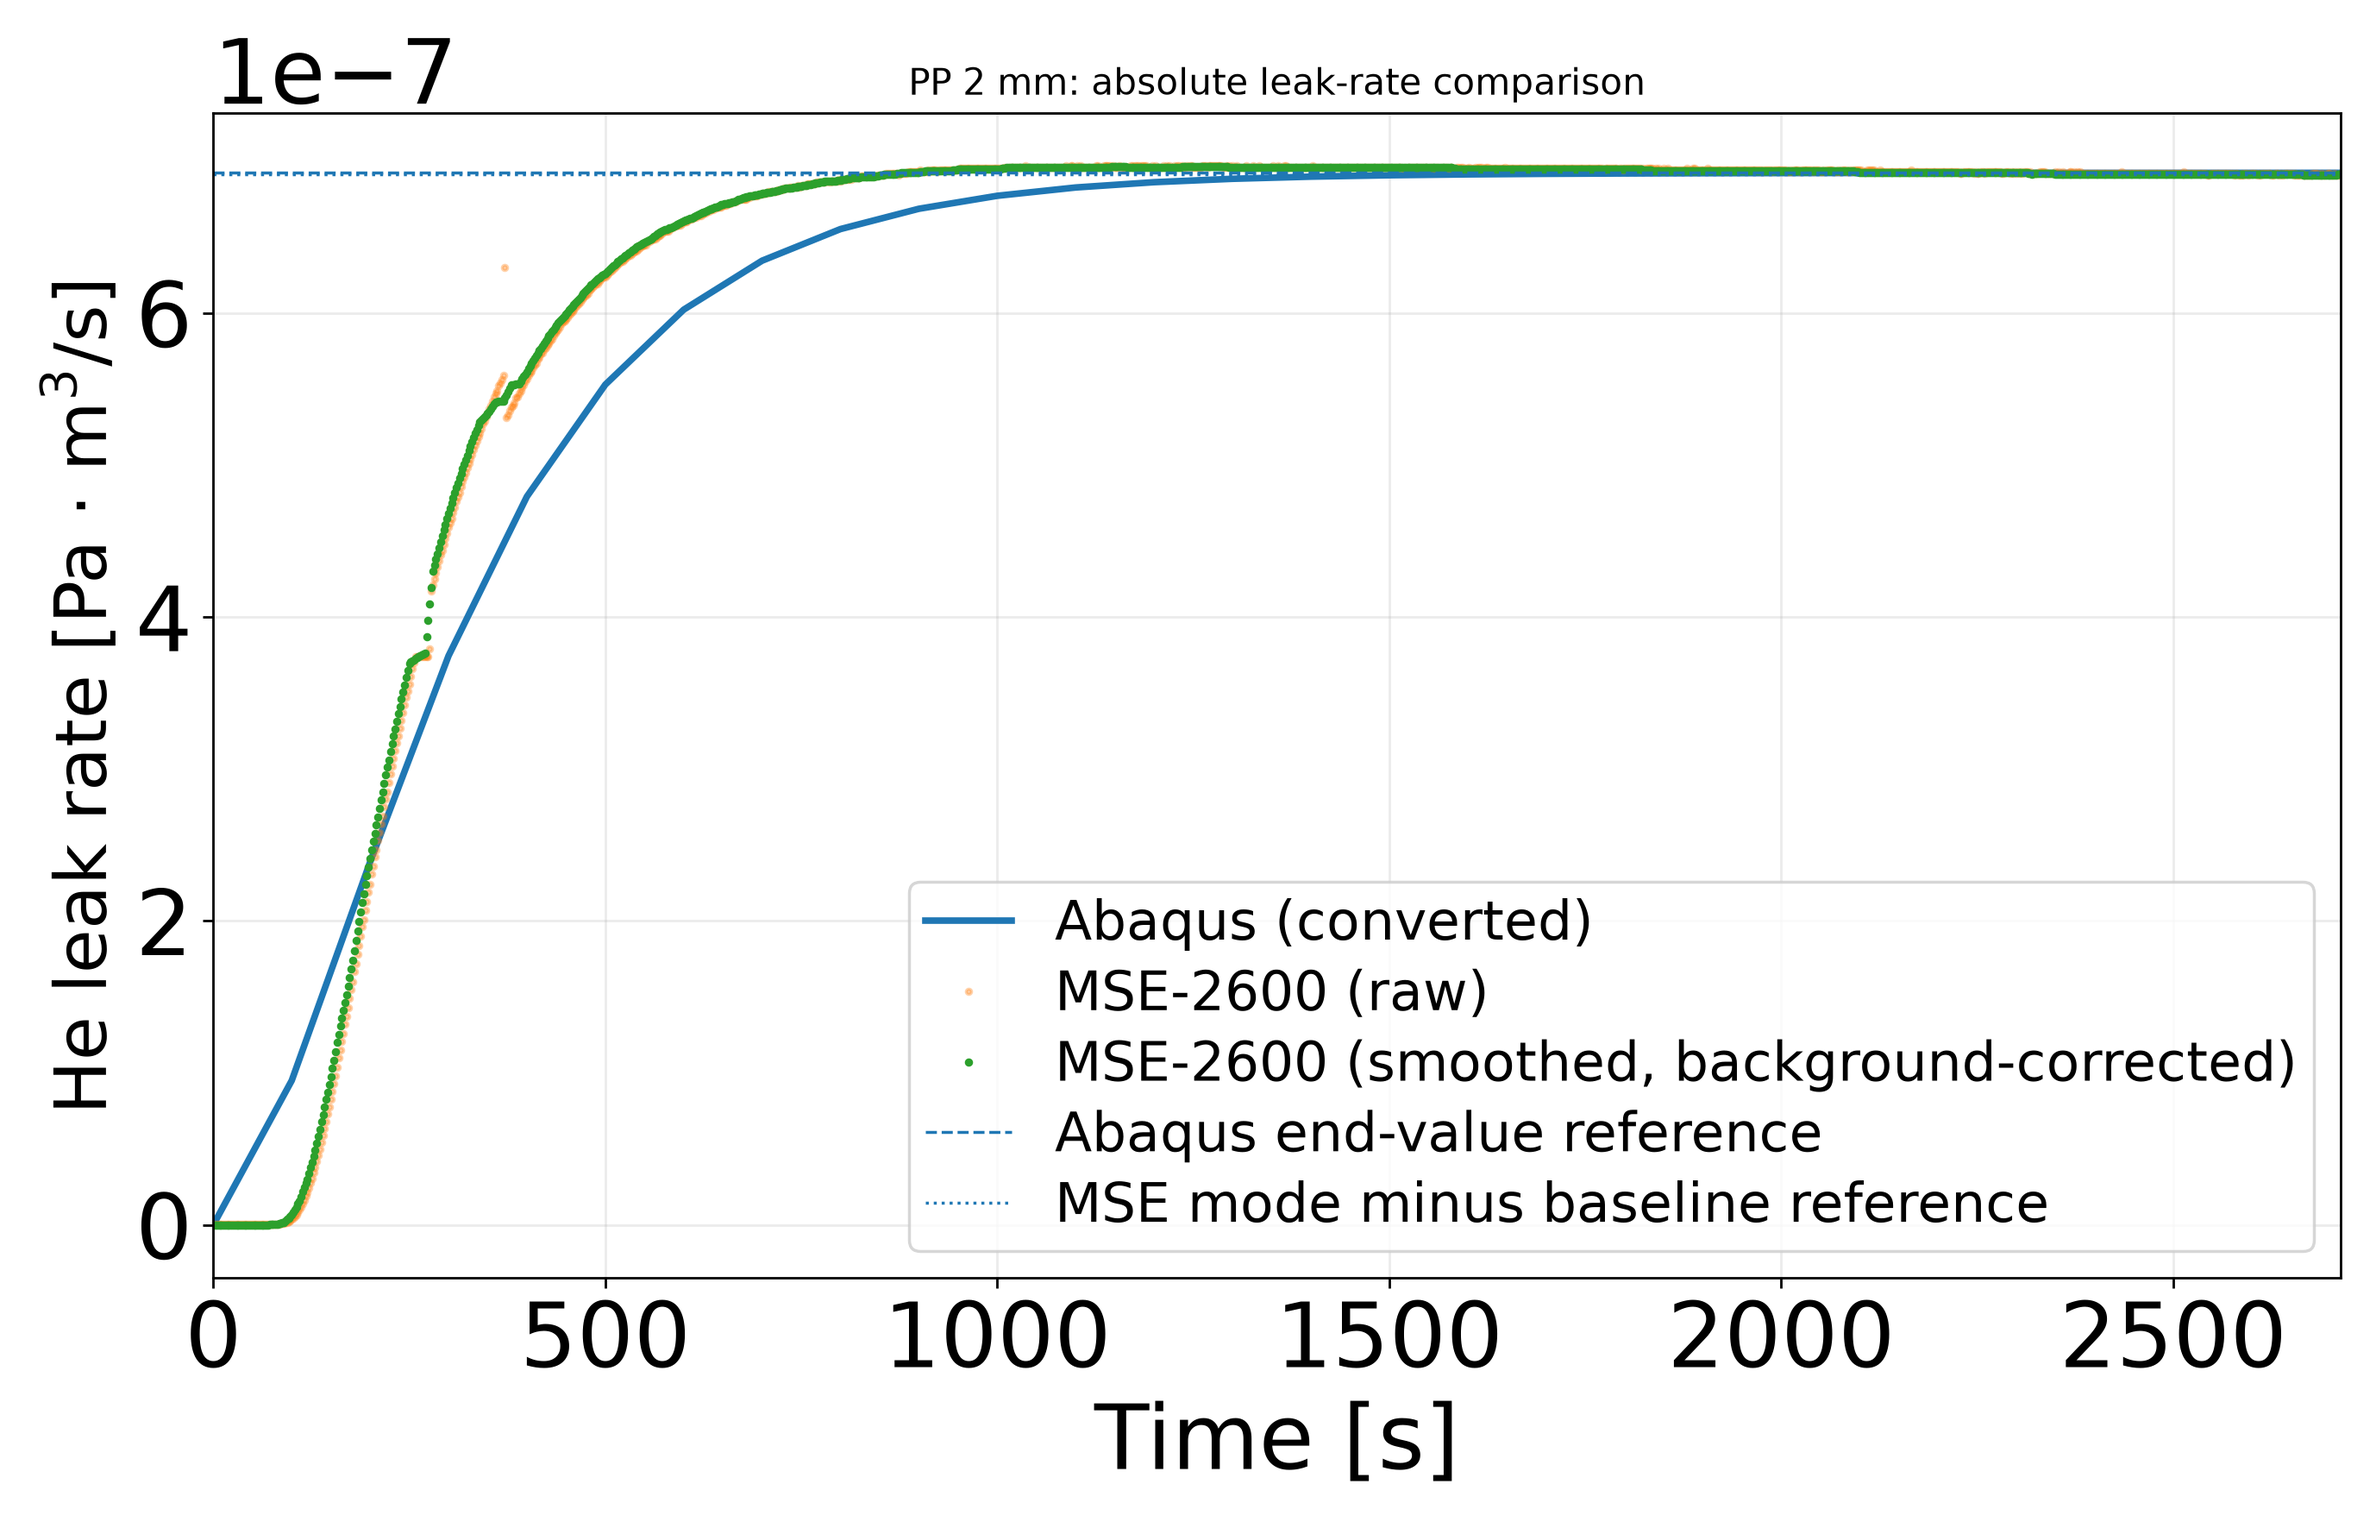
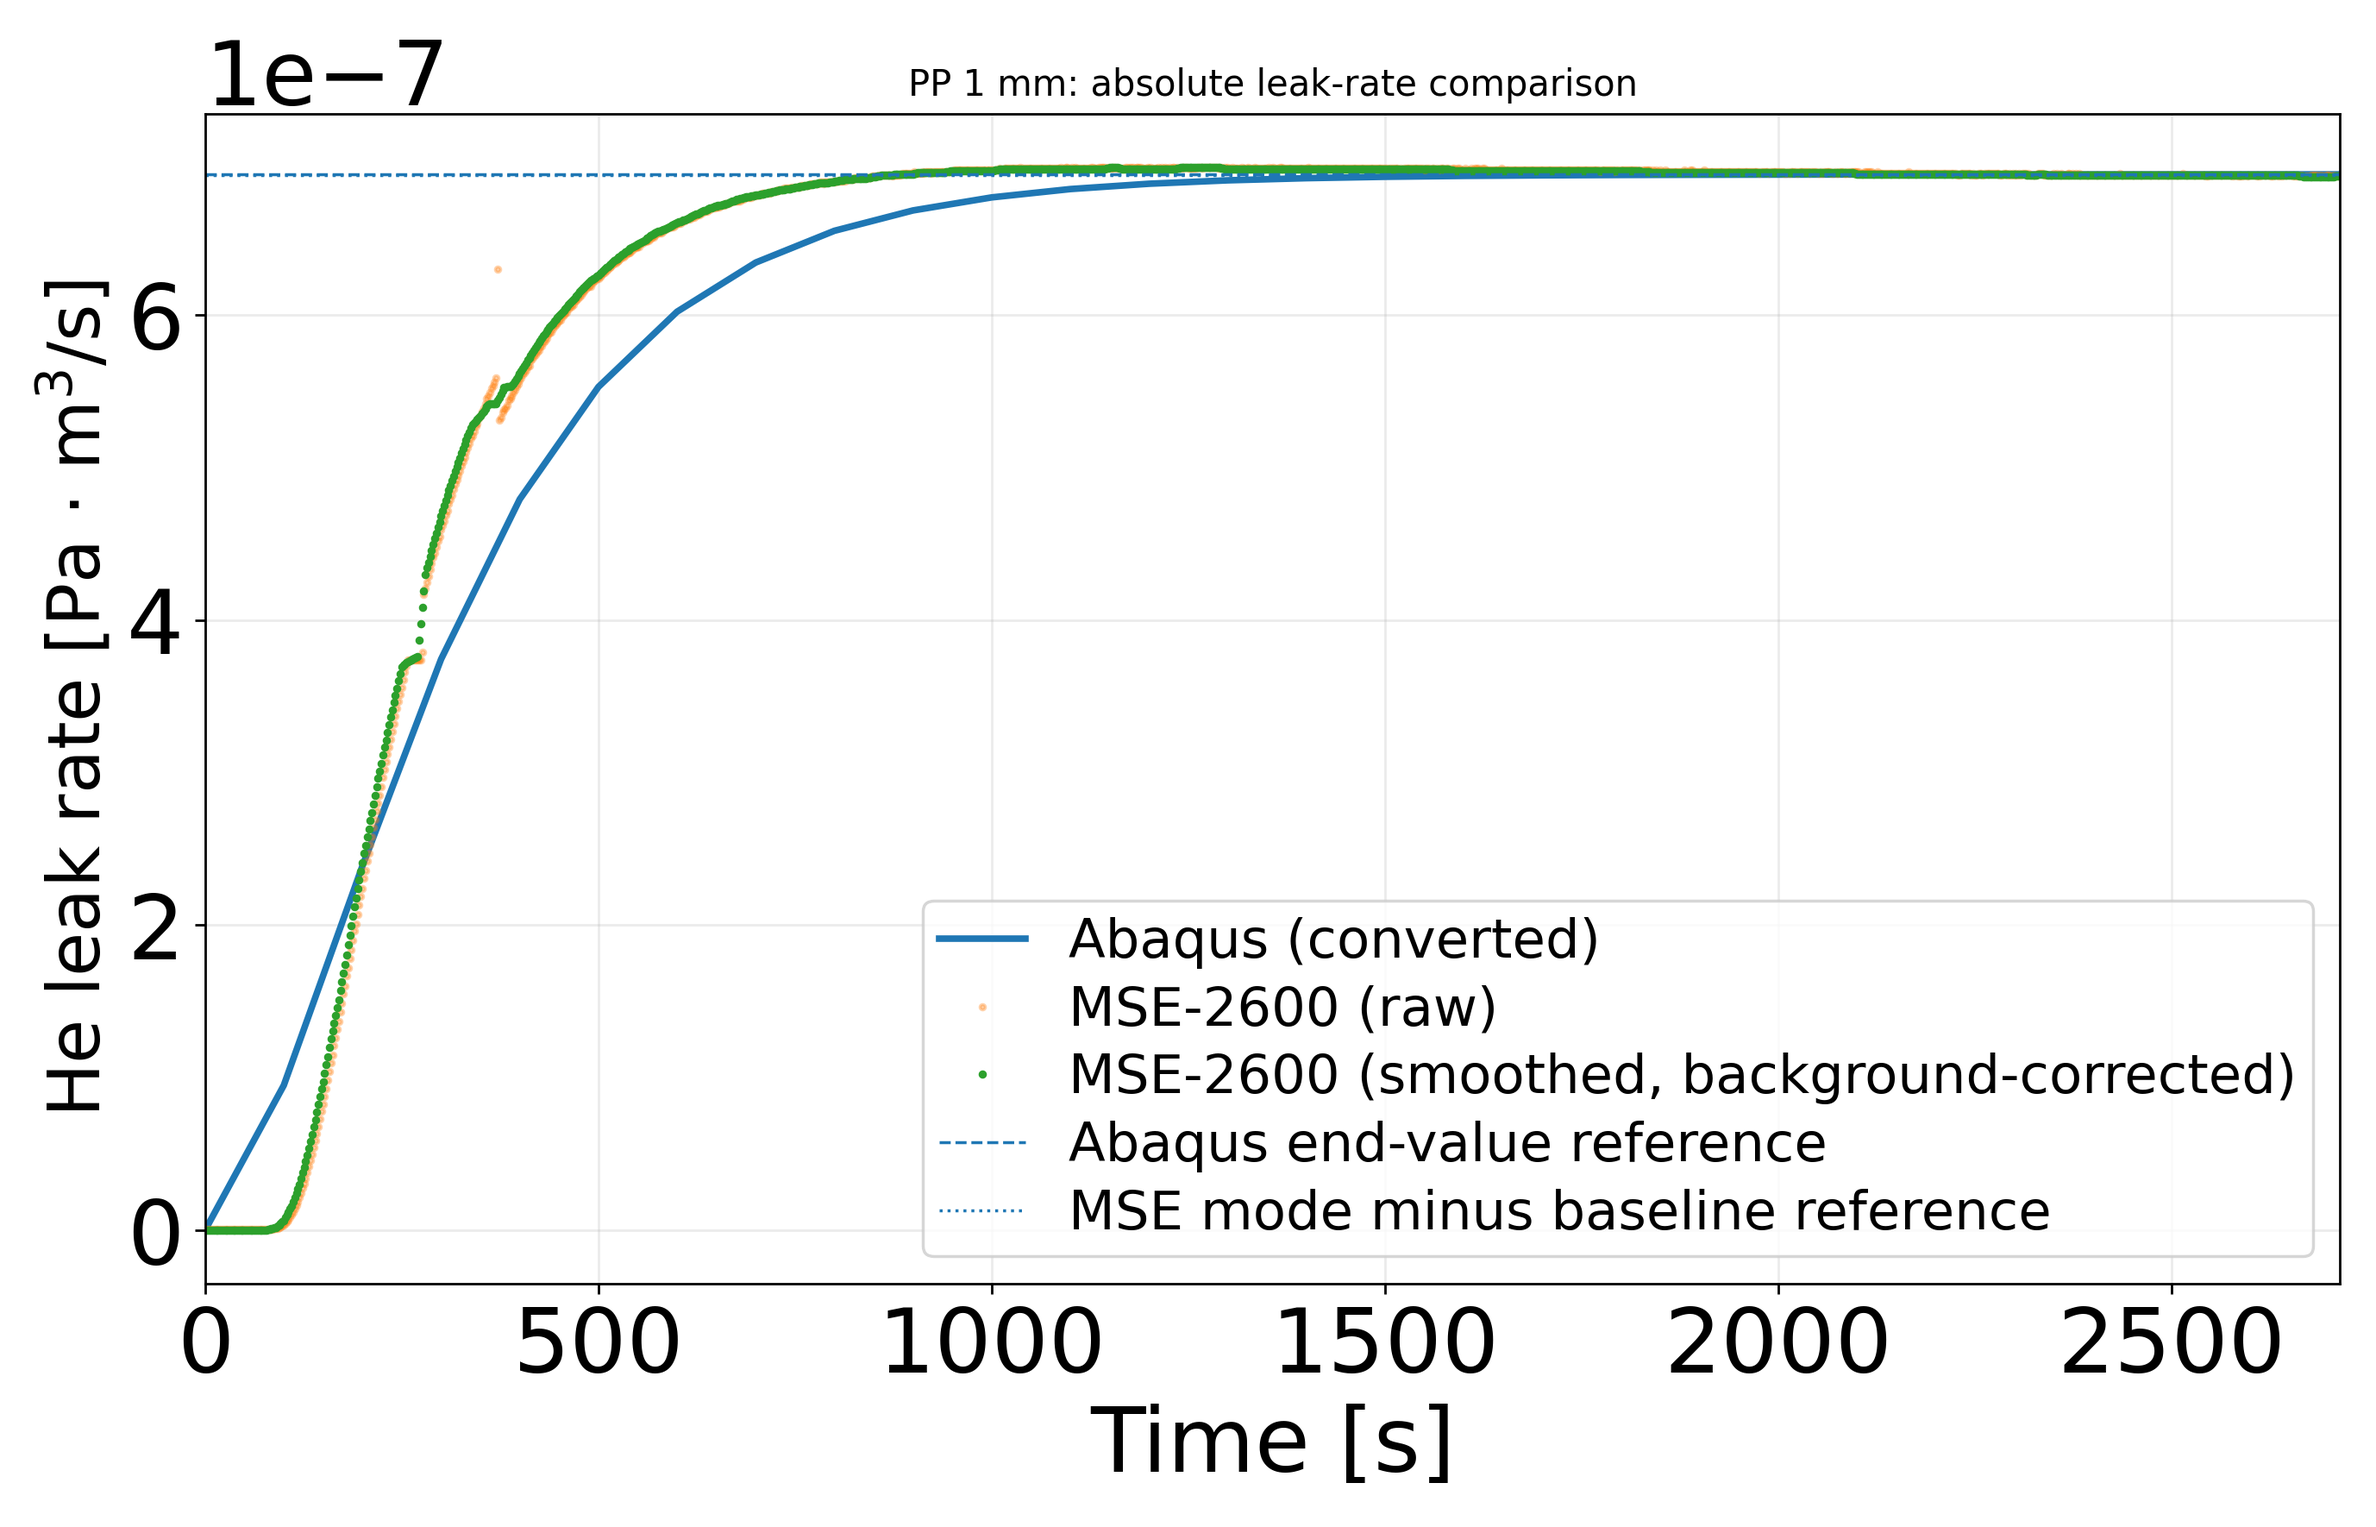
update PP1mm

diff --git a/compare_peek_abaqus_mse2600.py b/compare_peek_abaqus_mse2600.py
@@ -412,7 +412,7 @@ def main(argv=None):
     plt.xlim(x_min, x_max)
     plt.xlabel("Time [s]")
     plt.ylabel(r"He leak rate [Pa $\cdot$ m$^3$/s]", fontsize=Y_AXIS_LABEL_FONT_SIZE_PT)
-    plt.title("PP 2 mm: absolute leak-rate comparison")
+    plt.title("PP 1 mm: absolute leak-rate comparison")
     plt.grid(alpha=0.25)
     plt.legend() 
     save_fig("01_absolute_leak_rate.png")
@@ -430,7 +430,7 @@ def main(argv=None):
     plt.xlim(x_min, x_max)
     plt.xlabel("Time [s]")
     plt.ylabel("Normalized flow / reference [-]", fontsize=Y_AXIS_LABEL_FONT_SIZE_PT)
-    plt.title("PP 2 mm: normalized permeation response")
+    plt.title("PP 1 mm: normalized permeation response")
     plt.grid(alpha=0.25)
     plt.legend()
     save_fig("02_normalized_comparison.png")
@@ -446,7 +446,7 @@ def main(argv=None):
     plt.xlim(x_min, x_max)
     plt.xlabel("Time [s]")
     plt.ylabel(r"He leak rate [Pa $\cdot$ m$^3$/s] (log)", fontsize=Y_AXIS_LABEL_FONT_SIZE_PT)
-    plt.title("PP 2 mm: early-time comparison (log scale)")
+    plt.title("PP 1 mm: early-time comparison (log scale)")
     plt.grid(alpha=0.25, which="both")
     plt.legend()
     save_fig("03_log_leak_rate.png")
@@ -472,7 +472,7 @@ def main(argv=None):
     norm_rmse = (float(np.sqrt(np.mean((aligned["exp_norm"] - aligned["sim_norm"]) ** 2)))
                  if len(aligned) else float("nan"))
     summary = (
-        "PP 2 mm: Abaqus vs MSE-2600 (NO FITTING)\n"
+        "PP 1 mm: Abaqus vs MSE-2600 (NO FITTING)\n"
         "=====================================================\n"
         f"RPT rows: {len(sim)}, MSE retained post-He rows: {len(exp)}\n"
         f"Model area: {model_area_mm2:.6g} mm^2 (assumed depth={MODEL_OUT_OF_PLANE_MM} mm)\n"
